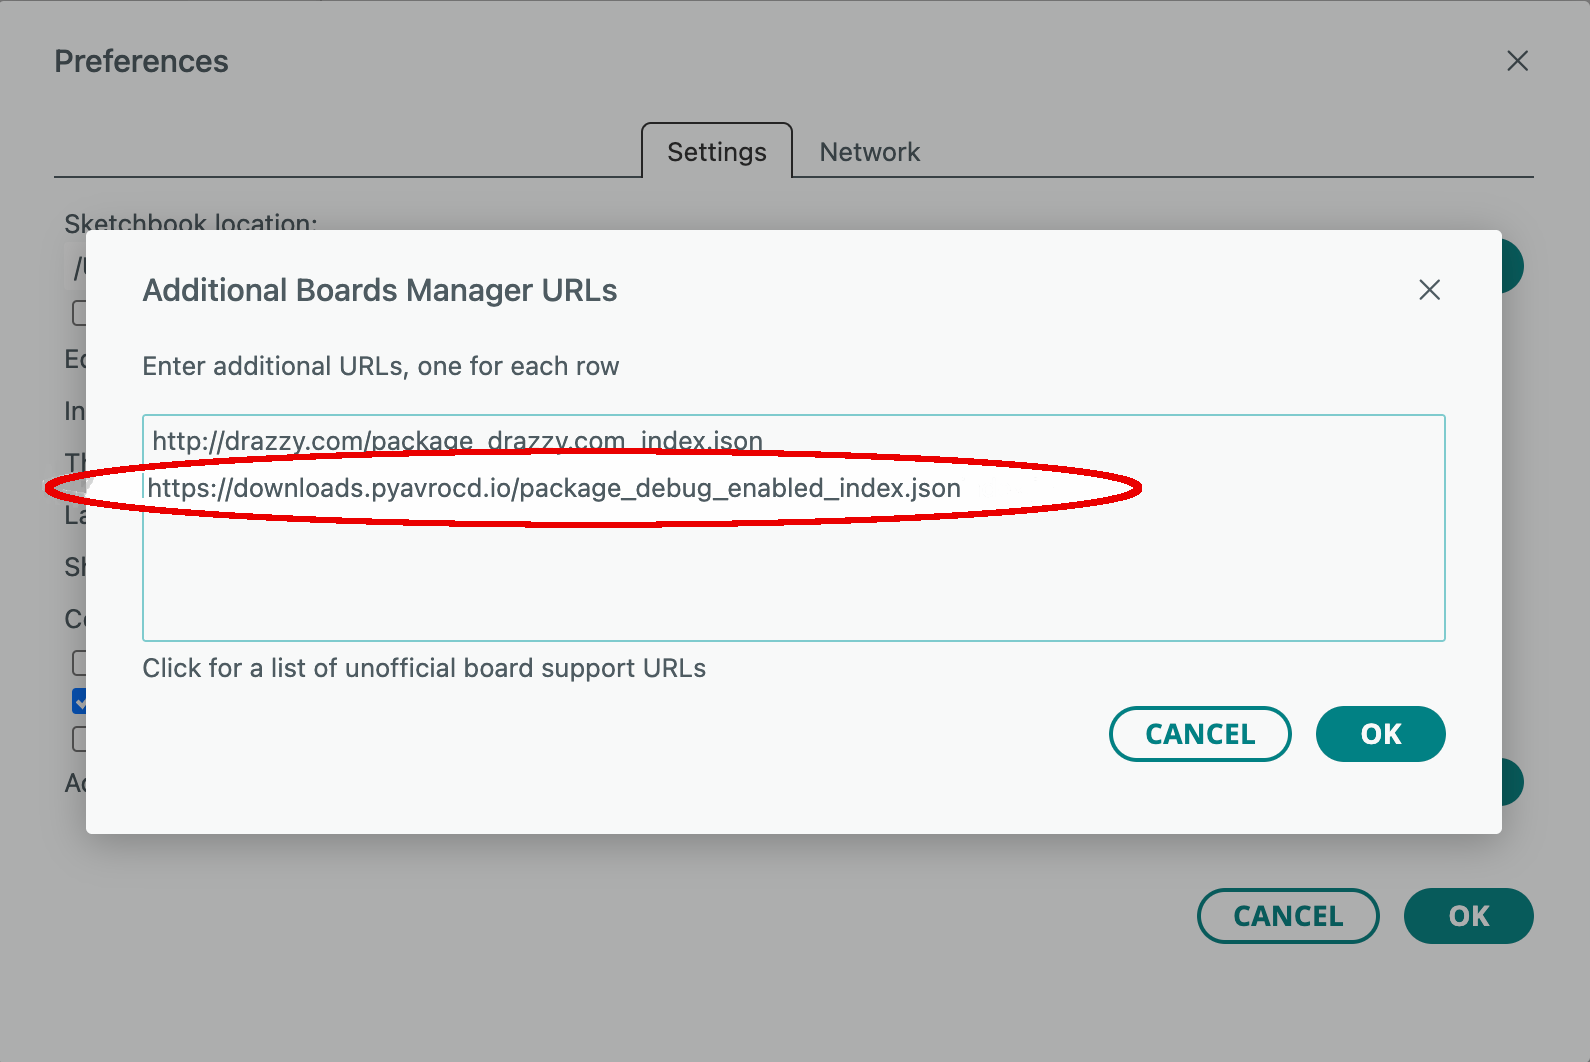
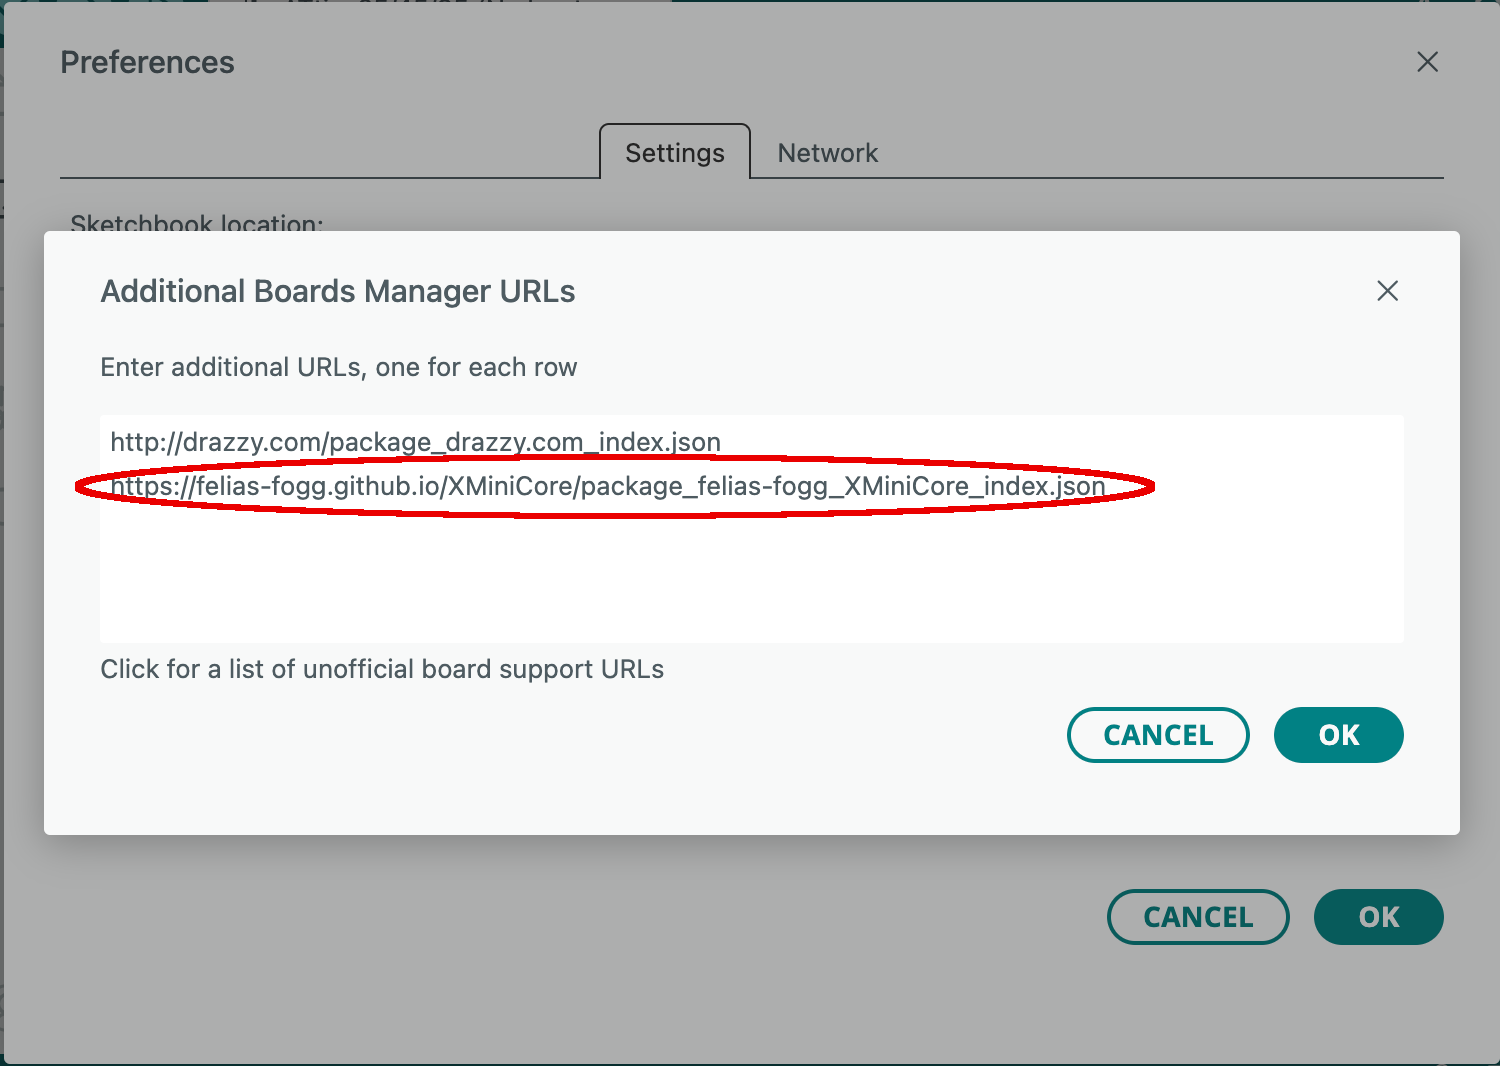
new board URLs for xminis and ATTinyCore

diff --git a/docs/supporting-cores.md b/docs/supporting-cores.md
@@ -6,25 +6,15 @@ If you want to install a core, in most cases, you first have to add a *package i
 
 ### [ATTinyCore (Debug enabled)](https://github.com/felias-fogg/ATTinyCore-debug-enabled)
 
-This is my fork of Spence Konde's ATTinyCore version 1.5.2, which covers all classic ATtinys with a debugWire interface. With the advent of TinyCore (see below), it is now deprecated. You can install it after including the following URL:
+This is my fork of Spence Konde's ATTinyCore version 1.5.2, which covers all classic ATtinys with a debugWire interface. With the advent of TinyCore (see below), it is deprecated. You can install it after including the following URL:
 
 ```
- https://downloads.pyavrocd.io/package_debug_enabled_index.json
+https://felias-fogg.github.io/ATTinyCore/package_drazzy.com_ATTinyCore_index.json
 ```
-
-### [Atmel AVR Xplained-minis (Debug enabled)](https://github.com/felias-fogg/avr-xminis-debug-enabled)
-
-This is a debug-enabled Arduino core for the Microchip development boards [ATmega328P Xplained Mini](https://www.microchip.com/en-us/development-tool/atmega328p-xmini), [ATmega168BP Xplained Mini](https://www.microchip.com/en-us/development-tool/atmega168pb-xmini), and [ATmega328PB Xplained Mini](https://www.microchip.com/en-us/development-tool/atmega328pb-xmini). It is meant to be a replacement for the similarly named core in the official Arduino distribution, which is already 10 years old and does not really work. The new core is a stripped-down and adapted version of MCUdude's MiniCore. The boards, together with PyAvrOCD, work very smoothly. It is just plug-and-play. The only thing one must be aware of is that one should power the application circuit attached to the board through the `IOREF` pin (pin 2 of J202 on the Xplained Mini board). Otherwise, the automatic power-cycle feature might not work. Again, you can install this core through the boards manager URL:
-
-```
-https://downloads.pyavrocd.io/package_debug_enabled_index.json
-```
-
-If you had installed the original core `Atmel AVR Xplained-minis`, you should definitely remove it.
 
 ### [TinyCore](https://github.com/MCUdude/TinyCore)
 
-This is a fork of Spence Konde's ATTinyCore version 2.0.0. It is the preferred way of supporting classic ATtinys.  You can install it after including the following URL:
+This is a fork of Spence Konde's ATTinyCore version 2.0.0. It is the preferred way of supporting classic ATtinys.  It does not support the micronucleus bootloader, however. You can install it after including the following URL:
 
 ```
 https://mcudude.github.io/TinyCore/package_MCUdude_TinyCore_index.json
@@ -44,6 +34,14 @@ This is the core for the small ATmegas with a debugWIRE interface, aka, ATmegaX8
 
 ```
 https://mcudude.github.io/MiniCore/package_MCUdude_MiniCore_index.json
+```
+
+### [XMiniCore](https://github.com/felias-fogg/XMiniCore)
+
+This is a debug-enabled Arduino core for the Microchip development boards [ATmega328P Xplained Mini](https://www.microchip.com/en-us/development-tool/atmega328p-xmini), [ATmega168BP Xplained Mini](https://www.microchip.com/en-us/development-tool/atmega168pb-xmini), and [ATmega328PB Xplained Mini](https://www.microchip.com/en-us/development-tool/atmega328pb-xmini). It is meant to be a replacement for the *Atmel AVR Xplained-minis* board package of the official Arduino distribution, which is already 10 years old and does not really work. The new core is a stripped-down and adapted version of MCUdude's MiniCore. The boards, together with PyAvrOCD, work very smoothly. It is just plug-and-play:
+
+```
+https://felias-fogg.github.io/XMiniCore/package_felias-fogg_XMiniCore_index.json
 ```
 
 ### [MightyCore](https://github.com/MCUdude/MightyCore)

diff --git a/docs/quick_arduino_xmini.md b/docs/quick_arduino_xmini.md
@@ -32,7 +32,7 @@ Now select the field with the additional board manager URLs.
 Type the following URL into a new line:
 
 ```
-https://downloads.pyavrocd.io/package_debug_enabled_index.json
+https://felias-fogg.github.io/XMiniCore/package_felias-fogg_XMiniCore_index.json
 ```
 
 <p align="center">
@@ -43,7 +43,7 @@ You close the dialog by clicking on two `OK` buttons in succession.
 
 ### Step 2: Install a debug-enabled core
 
-Now you need to activate the `boards manager` by clicking on the board symbol in the left side bar (1). After the boards manager pane has been opened, type "Debug" into the search line (2). After that, all cores with the word "Debug" in their description are displayed. Scroll down until you see one with the title "Atmel AVR Xplained-minis (Debug enabled)." Install this core by clicking on `Install` (3).
+Now you need to activate the `boards manager` by clicking on the board symbol in the left side bar (1). After the boards manager pane has been opened, type "xmini" into the search line (2). After that, all cores with the word "xmini" in their description are displayed. Scroll down until you see one with the title "XminiCore." Install this core by clicking on `Install` (3).
 
 <p align="center"><img src="https://raw.githubusercontent.com/felias-fogg/pyavrocd/refs/heads/main/docs/pics/IDE-boardmanager-xmini.png" width="90%"></p>
 